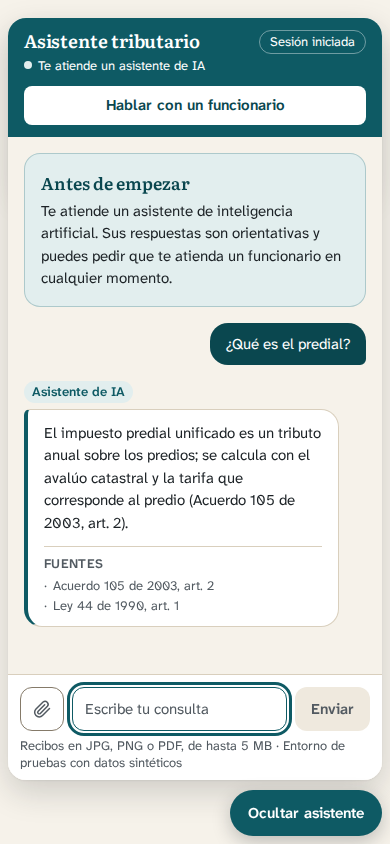
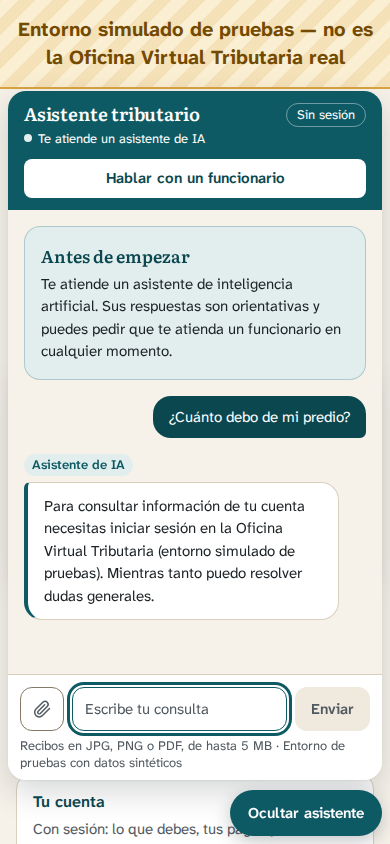
fix(web): capturas solo con textos del sistema y el rótulo siempre visible
widget_respuesta muestra AVISO_SESION ante una consulta personal sin
sesión; la lista de fuentes se prueba con un texto neutro y la
respuesta del funcionario, con un texto de prueba, sin captura. Sin
hueco entre el rótulo y el widget en el celular. 16 capturas nuevas.

Refs: RF-AUT-04 · Aviso de sesión requerida
Refs: RF-UI-01 · Widget embebible

diff --git a/web/tests/web.spec.js b/web/tests/web.spec.js
@@ -103,19 +103,27 @@ async function flujoRespuesta(page, tamano) {
   await expect(widget.getByTestId("aviso-ia")).toBeInViewport({ ratio: 1 }); // completo al abrir
   expect(await widget.locator("body").innerText()).not.toMatch(MARCAS_PROHIBIDAS);
   await capturar(page, "widget_inicio");
-  await iniciarSesion(page, tamano);
-  await expect(widget.getByText("Sesión iniciada")).toBeVisible();
-  await preguntar(widget, "¿Qué es el predial?");
-  const respuesta = widget.locator("[data-autor=agente]");
-  await expect(respuesta.getByText(TEXTOS.predial)).toBeVisible();
-  await expect(respuesta.getByText("Asistente de IA", { exact: true })).toBeVisible();
-  await expect(respuesta.getByRole("listitem").filter({ hasText: "Acuerdo 105 de 2003, art. 2" })).toBeVisible(); // fuente
-  // El token de la OVT llegó al widget por postMessage y viaja en la cabecera (RF-UI-02).
-  const enviada = solicitudes.find((s) => s.ruta === "/api/v1/chat/mensaje");
-  expect(enviada.auth).toBe("Bearer token-de-prueba-U03");
-  expect(enviada.cuerpo.id_conversacion).toMatch(/^conv-[0-9a-f-]{36}$/);
+  // Sin sesión, una consulta personal recibe el aviso de sesión real (AVISO_SESION, ACC-02).
+  await preguntar(widget, "¿Cuánto debo de mi predio?");
+  const aviso = widget.locator("[data-autor=agente]");
+  await expect(aviso.getByText(TEXTOS.avisoSesion)).toBeVisible();
+  await expect(aviso.getByText("Asistente de IA", { exact: true })).toBeVisible();
+  const sinSesion = solicitudes.find((s) => s.ruta === "/api/v1/chat/mensaje");
+  expect(sinSesion.auth).toBeNull();
+  expect(sinSesion.cuerpo.id_conversacion).toMatch(/^conv-[0-9a-f-]{36}$/);
   await rotuloVisible(page);
   await capturar(page, "widget_respuesta");
+  // Con sesión, el token de la OVT llega al widget por postMessage y viaja en la cabecera
+  // (RF-UI-02). El texto es neutro y solo sirve para revisar la lista de fuentes: sin captura.
+  await iniciarSesion(page, tamano);
+  await expect(widget.getByText("Sesión iniciada")).toBeVisible();
+  await preguntar(widget, "Pregunta de prueba");
+  const respuesta = widget.locator("[data-autor=agente]").filter({ hasText: TEXTOS.pruebaFuentes });
+  await expect(respuesta.getByRole("listitem").filter({ hasText: "Fuente de prueba A" })).toBeVisible();
+  await expect(respuesta.getByRole("listitem").filter({ hasText: "Fuente de prueba B" })).toBeVisible();
+  const conSesion = solicitudes.filter((s) => s.ruta === "/api/v1/chat/mensaje").at(-1);
+  expect(conSesion.auth).toBe("Bearer token-de-prueba-U03");
+  await rotuloVisible(page);
 }
 
 async function flujoFueraDeHorario(page, tamano) {
@@ -151,11 +159,11 @@ async function flujoEscalada(page, tamano) {
   await expect(widget.getByText(TEXTOS.transferencia)).toBeVisible();
   await expect(widget.getByTestId("interlocutor")).toHaveText("Tu caso está con un funcionario");
   await expect(widget.getByRole("button", { name: "Ya pediste un funcionario" })).toBeDisabled();
+  await capturar(page, "widget_escalado"); // antes del mensaje de prueba del funcionario
   // La consulta periódica trae el mensaje del funcionario (RF-ESC-05 y RF-UI-03).
   await expect(widget.getByText(TEXTOS.funcionario)).toBeVisible({ timeout: 8000 });
   await expect(widget.getByTestId("interlocutor")).toHaveText("Te atiende un funcionario");
   await expect(widget.locator("[data-autor=funcionario]").getByText("Funcionario", { exact: true })).toBeVisible();
-  await capturar(page, "widget_escalado");
 }
 
 async function flujoConsola(page, tamano) {
@@ -196,7 +204,7 @@ const FLUJOS = [
   {
     nombre: "widget: aviso de IA al abrir, sesión por postMessage, interlocutor y fuentes",
     flujo: flujoRespuesta,
-    req: ["RF-SYS-06 · Aviso de interacción con IA (provisional)", "RF-UI-02 · Contexto de la sesión", "RF-UI-03 · Identificación del interlocutor", "RF-GEN-03 · Respuesta sustentada en fuentes"],
+    req: ["RF-SYS-06 · Aviso de interacción con IA (provisional)", "RF-AUT-04 · Aviso de sesión requerida", "RF-UI-02 · Contexto de la sesión", "RF-UI-03 · Identificación del interlocutor", "RF-GEN-03 · Respuesta sustentada en fuentes"],
   },
   {
     nombre: "widget: fuera de horario destacado con la hora de regreso (RNF-07)",

diff --git a/web/tests/simulador.js b/web/tests/simulador.js
@@ -12,9 +12,12 @@ export const TEXTOS = {
   avisoIa:
     "Te atiende un asistente de inteligencia artificial. Sus respuestas son orientativas y " +
     "puedes pedir que te atienda un funcionario en cualquier momento",
-  predial:
-    "El impuesto predial unificado es un tributo anual sobre los predios; se calcula con el " +
-    "avalúo catastral y la tarifa que corresponde al predio (Acuerdo 105 de 2003, art. 2).",
+  // AVISO_SESION de nodo_general: consulta personal sin sesión (ACC-02)
+  avisoSesion:
+    "Para consultar información de tu cuenta necesitas iniciar sesión en la Oficina Virtual " +
+    "Tributaria (entorno simulado de pruebas). Mientras tanto puedo resolver dudas generales.",
+  // Texto neutro, solo para revisar la lista de fuentes; no se usa en ninguna captura.
+  pruebaFuentes: "Texto de prueba para revisar la lista de fuentes.",
   fueraDeHorario:
     "En este momento estoy fuera del horario de atención. Atiendo de lunes a viernes, de 8:00 a. m. " +
     "a 5:00 p. m. (hora de Colombia), sin contar festivos. Vuelvo a atender el lunes 5 de octubre de " +
@@ -32,7 +35,9 @@ export const TEXTOS = {
     "Estos son los datos que leí del recibo:\n- Matrícula catastral: 50C-9000301\n- Vigencia fiscal: " +
     "2026\n- Avalúo catastral: $350.000.000\n- Valor liquidado: $2.135.000\n- Descuento por pronto " +
     "pago: $213.500\n- Fecha límite de pago: 10/07/2026\n\n¿Es correcto?",
-  funcionario: "Hola, soy el funcionario que revisa tu caso. Ya vi el resumen; te ayudo con el pago.",
+  // El sistema todavía no tiene cómo responder desde la consola (sección 3.6, opcional): texto de
+  // prueba para revisar la consulta periódica; no se usa en ninguna captura.
+  funcionario: "Texto de prueba de un mensaje del funcionario.",
 };
 
 const USUARIOS = [
@@ -83,11 +88,13 @@ export async function simularApi(page, { fueraDeHorario = false } = {}) {
       if (fueraDeHorario) {
         return json(chat(cuerpo.id_conversacion, TEXTOS.fueraDeHorario, "sistema", "fuera_de_horario"));
       }
-      const texto = `${TEXTOS.predial}\n\nFuentes: Acuerdo 105 de 2003, art. 2; Ley 44 de 1990, art. 1.`;
-      return json(chat(cuerpo.id_conversacion, texto, "agente", "respondida", {
-        categoria: "ipu", agentes_invocados: ["nodo_orquestador", "nodo_ipu", "nodo_confianza", "nodo_respuesta"],
-        nivel_confianza: 0.86,
-      }));
+      if (!auth) {
+        return json(chat(cuerpo.id_conversacion, TEXTOS.avisoSesion, "agente", "aviso_sesion", {
+          categoria: "general", agentes_invocados: ["nodo_orquestador", "nodo_general", "nodo_confianza", "nodo_respuesta"],
+        }));
+      }
+      const texto = `${TEXTOS.pruebaFuentes}\n\nFuentes: Fuente de prueba A; Fuente de prueba B.`;
+      return json(chat(cuerpo.id_conversacion, texto, "agente", "respondida", { categoria: "general" }));
     }
     if (ruta === "/api/v1/chat/documento") {
       const id = /name="id_conversacion"\r\n\r\n([^\r]+)/.exec(peticion.postData() ?? "")?.[1] ?? "conv";

diff --git a/web/public/widget/embed.js b/web/public/widget/embed.js
@@ -49,7 +49,8 @@
   function margenSuperior() {
     var respetar = document.querySelector("[data-realtix-respetar]");
     var abajo = respetar ? respetar.getBoundingClientRect().bottom : 0;
-    return Math.max(16, Math.round(abajo) + 12);
+    // En el celular el panel empieza justo debajo del rótulo, sin hueco.
+    return Math.max(ancho.matches ? 16 : 8, Math.round(abajo) + (ancho.matches ? 12 : 0));
   }
 
   function medidas() {

diff --git a/docs/resumenes/b11.md b/docs/resumenes/b11.md
@@ -140,11 +140,28 @@ Análisis (verificado por Rodolfo en la base):
    usufructuarios.
 3. Lo que dice de los arts. 14 y 17 sí coincide con la base.
 
-Una segunda pregunta para la captura, la de GEN-02 («¿Puedo pagar mi predial o presentar mi
-declaración con el asistente?»), respondió con una afirmación que no está en el manual que cita
-(«Para pagar o presentar, debes hacerlo directamente en la Oficina Virtual Tributaria») y con una que
-se queda corta frente a él («Solo puede orientarte con respuestas generales…», cuando con sesión
-también consulta los predios). Queda anotada para la misma revisión.
+**GEN-02, «¿Puedo pagar mi predial o presentar mi declaración con el asistente?».** Una consulta
+real, con el mismo reloj y sin sesión, respondió así (estado `respondida`, categoría `general`,
+confianza 0,78):
+
+> No. El asistente no presenta declaraciones, no hace pagos y no modifica datos, según el manual de
+> la OVT simulada. Solo puede orientarte con respuestas generales sobre el predial, el ICA, tus datos
+> personales y el uso de la plataforma. Para pagar o presentar, debes hacerlo directamente en la
+> Oficina Virtual Tributaria. Si lo necesitas, también puedes pedir que te atienda un funcionario.
+>
+> Fuentes: Manual de uso de la OVT simulada (sintético), Lo que el asistente no hace; Manual de uso
+> de la OVT simulada (sintético), Cómo usar el asistente; Manual de uso de la OVT simulada
+> (sintético), Cómo hablar con un funcionario.
+
+1. **Error:** «Para pagar o presentar, debes hacerlo directamente en la Oficina Virtual Tributaria»
+   no está en el manual.
+2. **Se queda corta, no es un error:** «Solo puede orientarte con respuestas generales» coincide con
+   el manual sin sesión («Sin una sesión, el asistente solo responde consultas generales»), pero
+   omite que con sesión consulta los predios del usuario.
+3. Lo demás coincide con el manual.
+
+**Causa común, lo primero que se revisa en las correcciones de la corrida 1:** las dos respuestas
+agregan cosas que no están en las fuentes recuperadas.
 
 ## Cambios frente al documento de grado
 

diff --git a/docs/capturas/README.md b/docs/capturas/README.md
@@ -17,7 +17,9 @@ Capturas de la OVT simulada, el widget y la consola, cada una en 1280 px (`_1280
   mismo cálculo de `/admin/metricas`; por eso la exactitud, el total etiquetado, la precisión, la
   exhaustividad y el F1 son coherentes entre sí. Las duraciones son las de la medición de B9.
 - **La captura de las métricas para el documento de grado se tomará en B16**, con la corrida final.
-- **La captura con una respuesta sobre normas se tomará en B16**, con el sistema corregido. La
-  respuesta real a «¿Qué es el impuesto predial?» tiene una falla conocida (ver
-  `docs/resumenes/b11.md`, «Fallas conocidas»), y la respuesta de la API simulada en
-  `widget_respuesta` es solo un ejemplo de formato.
+- **`widget_respuesta` muestra el aviso de sesión** (`AVISO_SESION`, texto fijo del código) ante
+  «¿Cuánto debo de mi predio?» sin sesión (ACC-02).
+- **La captura con una respuesta sobre normas y la de la lista de fuentes se tomarán en B16**, con el
+  sistema corregido. Las respuestas reales a «¿Qué es el impuesto predial?» y a la pregunta de GEN-02
+  tienen fallas conocidas (ver `docs/resumenes/b11.md`, «Fallas conocidas»). La lista de fuentes se
+  revisa en las pruebas con un texto neutro, que no se usa en ninguna captura.
